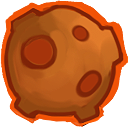
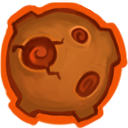
Added the arrow gameplay

diff --git a/H2G2/src/com/baptemedujeu/minild42/Hitchhiker.java b/H2G2/src/com/baptemedujeu/minild42/Hitchhiker.java
@@ -2,9 +2,8 @@ package com.baptemedujeu.minild42;
 
 
 import com.badlogic.gdx.Input;
-import com.badlogic.gdx.graphics.Texture;
+import com.badlogic.gdx.Input.Buttons;
 import com.badlogic.gdx.graphics.g2d.Sprite;
-import com.badlogic.gdx.graphics.g2d.SpriteBatch;
 import com.badlogic.gdx.graphics.g2d.TextureRegion;
 import com.badlogic.gdx.math.MathUtils;
 import com.badlogic.gdx.math.Vector2;
@@ -12,17 +11,27 @@ import com.badlogic.gdx.math.Vector3;
 import com.jackamikaz.gameengine.DisplayedEntity;
 import com.jackamikaz.gameengine.Engine;
 import com.jackamikaz.gameengine.InputEntity;
-import com.jackamikaz.gameengine.SpatialEntity;
 import com.jackamikaz.gameengine.UpdatedEntity;
+import com.jackamikaz.gameengine.utils.ButtonWatcher;
 import com.jackamikaz.gameengine.utils.DisplayOrder;
+import com.jackamikaz.gameengine.utils.InputWatcher;
 
 public class Hitchhiker implements DisplayedEntity, UpdatedEntity, InputEntity,
 		SpatialEntity
 {
 
 	private Sprite sprite;
-	private Texture texture;
 	private Vector2 pos;
+	
+	// thumb related
+	private InputWatcher clic;
+	private TextureRegion[] arrowSheet;
+	private Sprite arrow;
+	private float thumbLoad;
+	private Vector2 mousePos;
+	private static final float thumbLoadSpeed = 1.0f;
+	private static final float thumbMinPower = 4.5f;
+	private static final float thumbMaxPower = 22.0f;
 	
 	// camera
 	private float desiredCameraAngle = 0.0f;
@@ -43,20 +52,28 @@ public class Hitchhiker implements DisplayedEntity, UpdatedEntity, InputEntity,
 		Engine.InputMaster().Add(this);
 
 		pos = new Vector2(x, y);
+		mousePos = new Vector2(pos);
+		
+		clic = new ButtonWatcher(Buttons.LEFT);
+		
 		H2G2Game.camera.position.set(x, y, 0);
 		H2G2Game.camera.update();
 
-		texture = Engine.ResourceManager().GetTexture("hitchhiker");
-		TextureRegion region = new TextureRegion(texture, 0, 0, 64, 64);
-		sprite = new Sprite(region);
+		// hitchhiker sprite
+		sprite = new Sprite(Engine.ResourceManager().GetTexture("hitchhiker"));
 		sprite.setPosition(pos.x, pos.y);
-		sprite.setSize(0.7f, 0.7f * sprite.getHeight() / sprite.getWidth());
+		sprite.setSize(0.7f, 0.7f);
 		sprite.setOrigin(sprite.getWidth() / 2, sprite.getHeight() / 2);
 		
-		// initialise queries
+		// arrow sprites
+		arrowSheet = Engine.ResourceManager().GetTextureSheet("arrow");
+		arrow = new Sprite(arrowSheet[0]);
+		arrow.setSize(0.5f, 0.5f * arrow.getHeight() / arrow.getWidth());
+		arrow.setOrigin(arrow.getWidth() / 2, 0);
+		
+		// initialize queries
 		planetDistance = 
 				new EntityQueryManager.TypedDistanceQuery(pos, Planet.class);
-
 	}
 
 	public void setFalltowards(SpatialEntity sp)
@@ -70,9 +87,12 @@ public class Hitchhiker implements DisplayedEntity, UpdatedEntity, InputEntity,
 		if (  ((falltowards instanceof Mothership) || (falltowards instanceof Spaceship)) && pos.dst(falltowards.getPosition())<0.5    ) {
 			
 		} else {
-			sprite.setPosition(pos.x  -sprite.getWidth() / 2 , pos.y  -sprite.getHeight() / 2 ) ;
+			sprite.setPosition(pos.x  -sprite.getOriginX() , pos.y  -sprite.getOriginY() ) ;
 			sprite.draw(Engine.Batch());				//draw the player
 		}
+		
+		if (thumbLoad > 0)
+			arrow.draw(Engine.Batch());
 	}
 
 	@Override
@@ -96,14 +116,38 @@ public class Hitchhiker implements DisplayedEntity, UpdatedEntity, InputEntity,
 	@Override
 	public void Update(float deltaT)
 	{
-	
-		if (falltowards == null) 
-		{
-			falltowards = (SpatialEntity)(EntityQueryManager.getMin(planetDistance));
+		// thumb
+		if (Thumb.canThrow()) {
+			if(clic.isPressed()) {
+				thumbLoad += deltaT * thumbLoadSpeed;
+				if (thumbLoad > 1.0f)
+					thumbLoad = 1.0f;
+			}
+			
+			if(clic.wasReleased())
+			{
+				float power = thumbMinPower + (thumbMaxPower - thumbMinPower) * thumbLoad;
+				thumbLoad = 0.0f;
+				if ((falltowards instanceof Spaceship)) {
+					new Thumb(falltowards.getPosition().x, falltowards.getPosition().y, mousePos.x - falltowards.getPosition().x, mousePos.y - falltowards.getPosition().y, power, this, falltowards);
+				} else {
+					new Thumb(pos.x, pos.y, mousePos.x - pos.x, mousePos.y - pos.y, power, this, falltowards);
+				}
+			}
+		}
+		
+		// thumb graphics
+		if (thumbLoad > 0) {
+			Vector2 pToM = new Vector2(mousePos.x - pos.x, mousePos.y - pos.y);
+			pToM.nor().scl(0.5f);
+			arrow.setRegion(arrowSheet[(int)(thumbLoad * (float)arrowSheet.length-1)]);
+			arrow.setPosition(pos.x + pToM.x -arrow.getOriginX() , pos.y + pToM.y -arrow.getOriginY() ) ;
+			arrow.setRotation(pToM.angle() - 90);
 		}
 		
 		// GRAVITY
-		//Planet nearestPlanet = (Planet)(EntityQueryManager.getMin(planetDistance));
+		if (falltowards == null) 
+			falltowards = (SpatialEntity)(EntityQueryManager.getMin(planetDistance));
 		
 		Vector2 toPlanet = 
 				(new Vector2()).set(falltowards.getPosition()).sub(pos);
@@ -167,7 +211,6 @@ public class Hitchhiker implements DisplayedEntity, UpdatedEntity, InputEntity,
 			sprite.rotate(rotateAmount);
 		}
 		
-		
 		// home camera
 		Vector2 p = ((falltowards instanceof Spaceship) 
 				? falltowards.getPosition()
@@ -184,19 +227,14 @@ public class Hitchhiker implements DisplayedEntity, UpdatedEntity, InputEntity,
 	@Override
 	public void NewInput(Input input)
 	{
-
-		if(input.isTouched() && Thumb.canThrow())
-		{
-			Vector3 in = new Vector3(input.getX(), input.getY(), 0.0f);
-			H2G2Game.camera.unproject(in);
-			if ((falltowards instanceof Spaceship)) {
-				new Thumb(falltowards.getPosition().x, falltowards.getPosition().y, in.x - falltowards.getPosition().x, in.y - falltowards.getPosition().y, 15.0f, this, falltowards);
-			} else {
-				new Thumb(pos.x, pos.y, in.x - pos.x, in.y - pos.y, 15.0f, this, falltowards);
-			}
-		}
+		clic.NewInput(input);
+		
+		Vector3 in = new Vector3(input.getX(), input.getY(), 0.0f);
+		H2G2Game.camera.unproject(in);
+		
+		mousePos.x = in.x;
+		mousePos.y = in.y;
 	}
-
 	
 	//! SPATIAL ENTITY
 	

diff --git a/GameEngine/src/com/jackamikaz/gameengine/resources/ResourceManager.java b/GameEngine/src/com/jackamikaz/gameengine/resources/ResourceManager.java
@@ -13,6 +13,7 @@ import com.badlogic.gdx.audio.Music;
 import com.badlogic.gdx.audio.Sound;
 import com.badlogic.gdx.graphics.Texture;
 import com.badlogic.gdx.graphics.g2d.BitmapFont;
+import com.badlogic.gdx.graphics.g2d.TextureRegion;
 import com.badlogic.gdx.graphics.g3d.model.Model;
 import com.badlogic.gdx.graphics.glutils.ShaderProgram;
 import com.jackamikaz.gameengine.assets.Curve;
@@ -38,6 +39,7 @@ public class ResourceManager {
 	}
 	
 	public Texture GetTexture(String name) {return (Texture)(GetImpl(name));}
+	public TextureRegion[] GetTextureSheet(String name) {return (TextureRegion[])(GetImpl(name));}
 	public BitmapFont GetFont(String name) {return (BitmapFont)(GetImpl(name));}
 	public ShaderProgram GetShader(String name) {return (ShaderProgram)(GetImpl(name));}
 	public Model GetModel(String name) {return (Model)(GetImpl(name));}
@@ -88,6 +90,7 @@ public class ResourceManager {
 				String[] tokens = line.split("[ ]+");
 				
 				if (!AddResource(new ResTexture()			, tokens, 1))
+				if (!AddResource(new ResTextureSheet()		, tokens, 0))
 				if (!AddResource(new ResFont()				, tokens, 2))
 				if (!AddResource(new ResShader()			, tokens, 2))
 				if (!AddResource(new ResModel()				, tokens, 1))

diff --git a/GameEngine/src/com/jackamikaz/gameengine/resources/ResTextureSheet.java b/GameEngine/src/com/jackamikaz/gameengine/resources/ResTextureSheet.java
@@ -1,0 +1,38 @@
+package com.jackamikaz.gameengine.resources;
+
+import com.badlogic.gdx.graphics.Texture;
+import com.badlogic.gdx.graphics.g2d.TextureRegion;
+import com.jackamikaz.gameengine.Engine;
+
+public class ResTextureSheet extends Resource {
+
+	@Override
+	public void Load() {
+		Texture tex = Engine.ResourceManager().GetTexture(files[0]);
+		
+		int w = Integer.parseInt(files[1]);
+		int h = Integer.parseInt(files[2]);
+		
+		TextureRegion[][] tmp = TextureRegion.split(tex,
+		tex.getWidth() / w, tex.getHeight() / h);
+		TextureRegion[] frames = new TextureRegion[w * h];
+		int index = 0;
+		for (int j = 0; j < w; j++) {
+			for (int i = 0; i < h; i++) {
+				frames[index++] = tmp[i][j];
+			}
+		}
+		
+		resObj = frames;
+	}
+
+	@Override
+	protected void UnLoadImpl() {
+	}
+
+	@Override
+	public String GetResName() {
+		return "TextureSheet";
+	}
+
+}

diff --git a/H2G2/src/com/baptemedujeu/minild42/Thumb.java b/H2G2/src/com/baptemedujeu/minild42/Thumb.java
@@ -8,7 +8,6 @@ import com.badlogic.gdx.math.Vector2;
 import com.baptemedujeu.minild42.EntityQueryManager.Query;
 import com.jackamikaz.gameengine.DisplayedEntity;
 import com.jackamikaz.gameengine.Engine;
-import com.jackamikaz.gameengine.SpatialEntity;
 import com.jackamikaz.gameengine.UpdatedEntity;
 import com.jackamikaz.gameengine.utils.DisplayOrder;
 

diff --git a/H2G2/src/com/baptemedujeu/minild42/Mothership.java b/H2G2/src/com/baptemedujeu/minild42/Mothership.java
@@ -7,7 +7,6 @@ import com.badlogic.gdx.graphics.g2d.TextureRegion;
 import com.badlogic.gdx.math.Vector2;
 import com.jackamikaz.gameengine.DisplayedEntity;
 import com.jackamikaz.gameengine.Engine;
-import com.jackamikaz.gameengine.SpatialEntity;
 import com.jackamikaz.gameengine.UpdatedEntity;
 import com.jackamikaz.gameengine.utils.DisplayOrder;
 

diff --git a/H2G2/src/com/baptemedujeu/minild42/Planet.java b/H2G2/src/com/baptemedujeu/minild42/Planet.java
@@ -7,7 +7,6 @@ import com.badlogic.gdx.graphics.g2d.TextureRegion;
 import com.badlogic.gdx.math.Vector2;
 import com.jackamikaz.gameengine.DisplayedEntity;
 import com.jackamikaz.gameengine.Engine;
-import com.jackamikaz.gameengine.SpatialEntity;
 import com.jackamikaz.gameengine.UpdatedEntity;
 import com.jackamikaz.gameengine.utils.DisplayOrder;
 

diff --git a/H2G2/src/com/baptemedujeu/minild42/Spaceship.java b/H2G2/src/com/baptemedujeu/minild42/Spaceship.java
@@ -7,7 +7,6 @@ import com.badlogic.gdx.graphics.g2d.TextureRegion;
 import com.badlogic.gdx.math.Vector2;
 import com.jackamikaz.gameengine.DisplayedEntity;
 import com.jackamikaz.gameengine.Engine;
-import com.jackamikaz.gameengine.SpatialEntity;
 import com.jackamikaz.gameengine.UpdatedEntity;
 import com.jackamikaz.gameengine.utils.DisplayOrder;
 

diff --git a/H2G2/src/com/baptemedujeu/minild42/EntityQueryManager.java b/H2G2/src/com/baptemedujeu/minild42/EntityQueryManager.java
@@ -6,7 +6,6 @@ import java.util.List;
 
 import com.badlogic.gdx.math.Vector2;
 import com.jackamikaz.gameengine.Engine;
-import com.jackamikaz.gameengine.SpatialEntity;
 import com.jackamikaz.gameengine.UpdatedEntity;
 
 public abstract class EntityQueryManager

diff --git a/H2G2/src/com/baptemedujeu/minild42/SpatialEntity.java b/H2G2/src/com/baptemedujeu/minild42/SpatialEntity.java
@@ -1,4 +1,4 @@
-package com.jackamikaz.gameengine;
+package com.baptemedujeu.minild42;
 
 import com.badlogic.gdx.math.Vector2;
 
